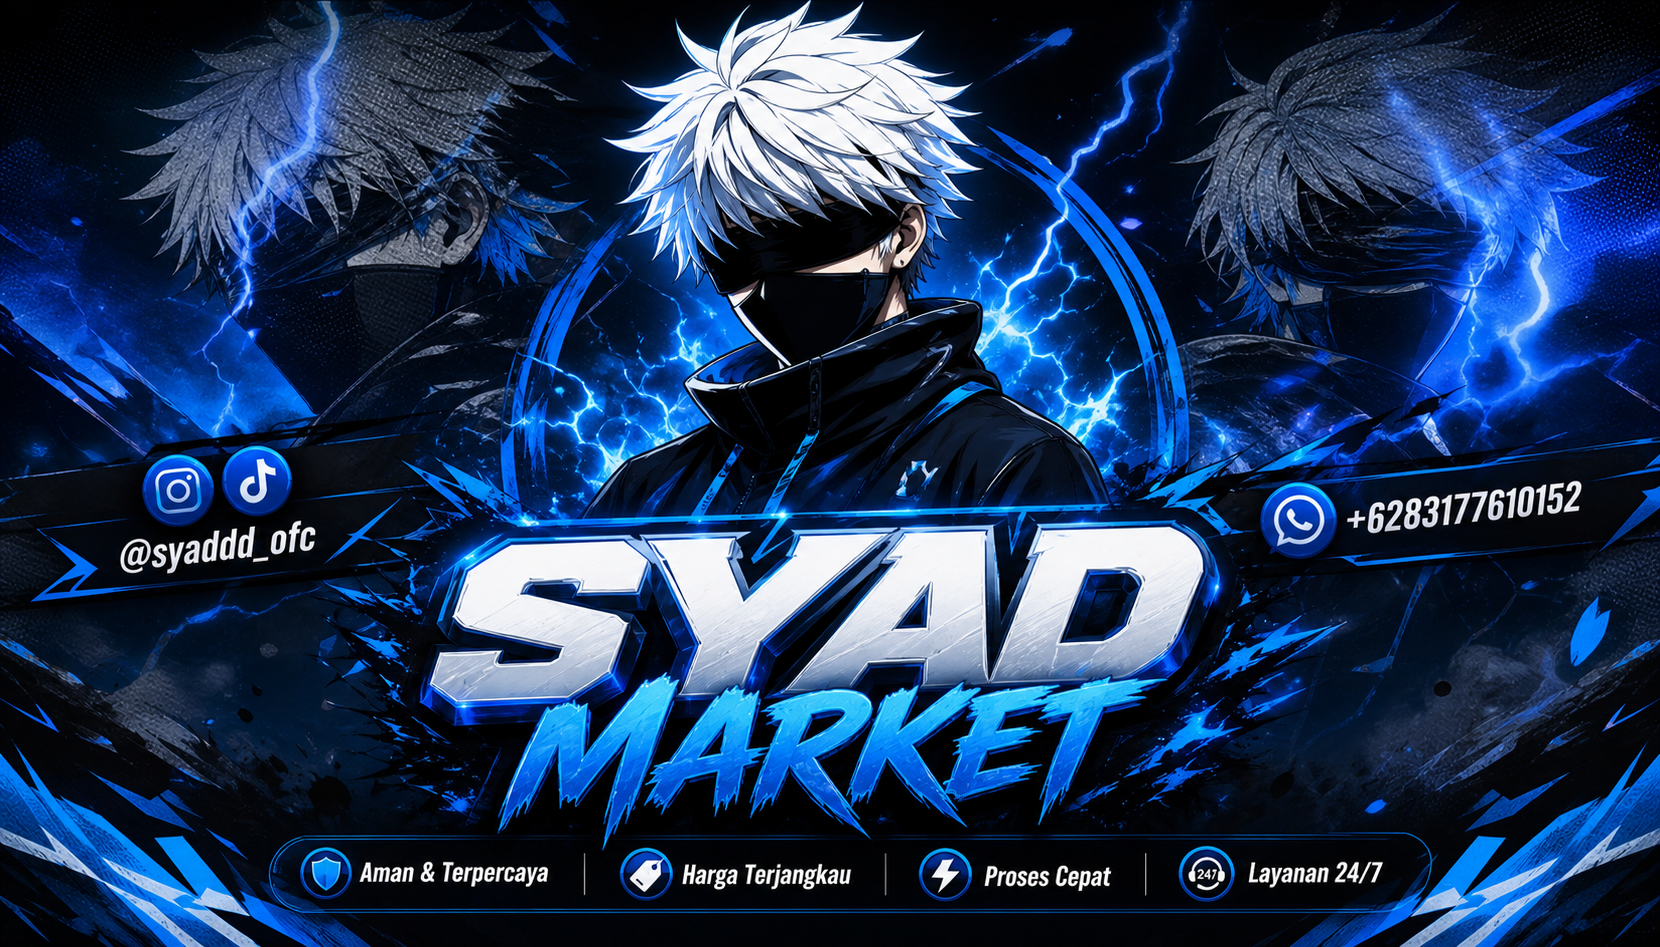
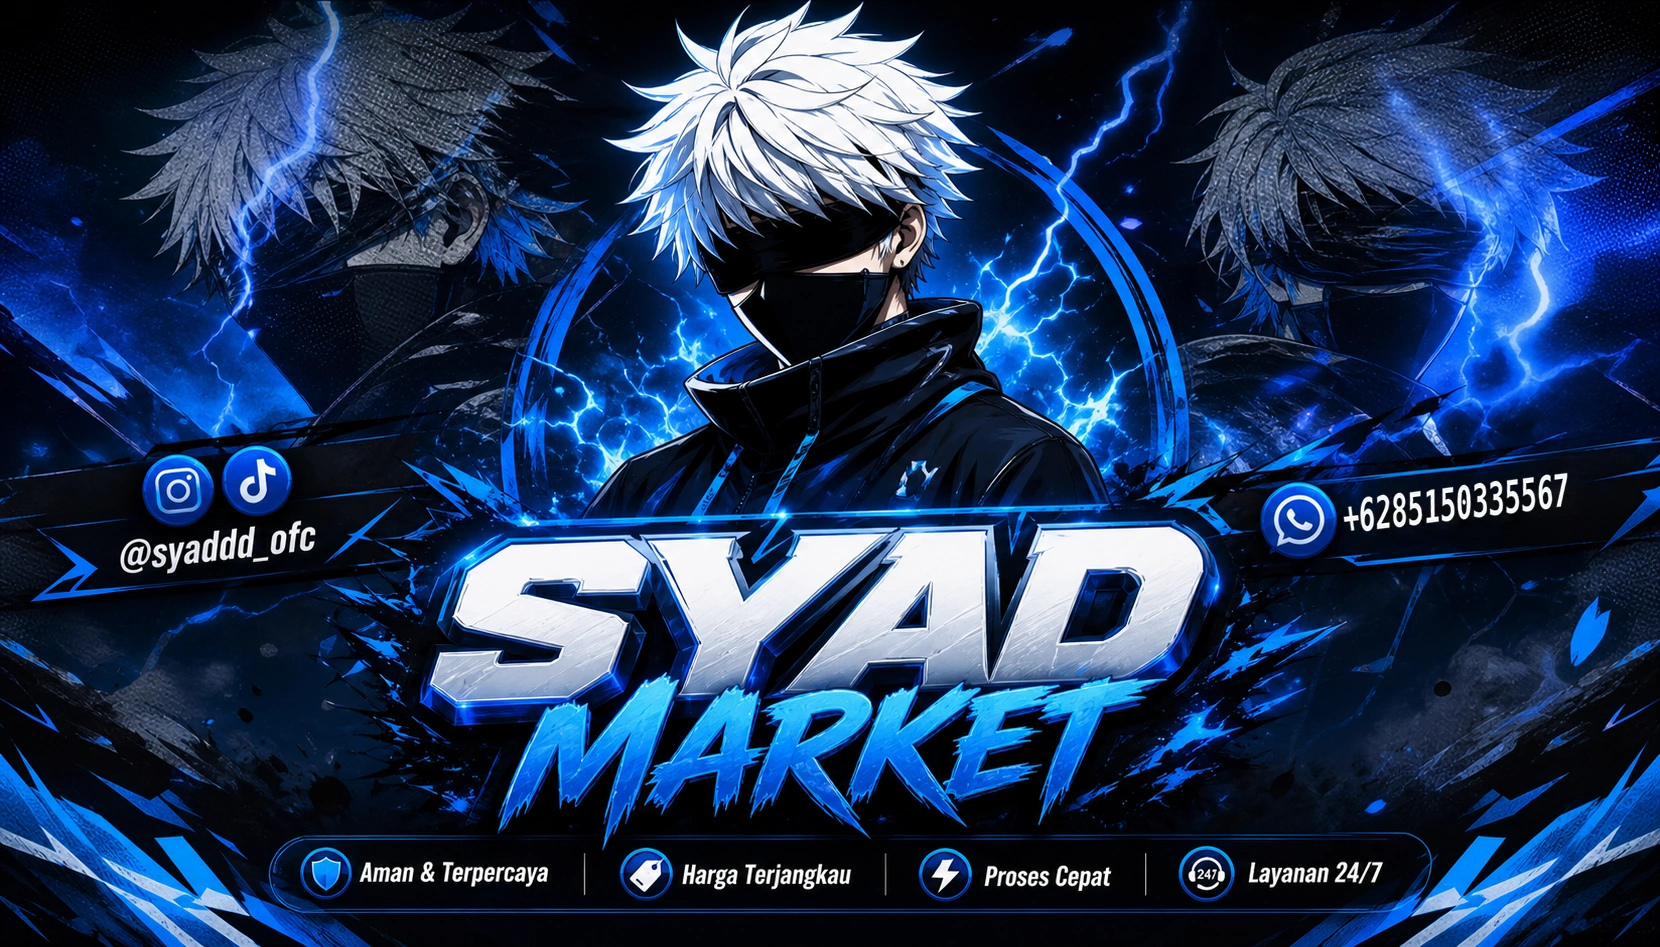
fix: update owner WhatsApp contact

diff --git a/prisma/seed.ts b/prisma/seed.ts
@@ -133,7 +133,7 @@ async function main() {
       id: 1,
       storeName: 'SYAD MARKET',
       tagline: 'Market digital terpercaya • verifikasi manual oleh admin',
-      whatsapp: '6283177610152',
+      whatsapp: '6285150335567',
       qrisPath: '/assets/qris.jpg',
       logoPath: '/assets/logo.jpg',
       announcement: 'Semua pembayaran dan pesanan diproses manual. Konfirmasi QRIS melalui WhatsApp admin.',
